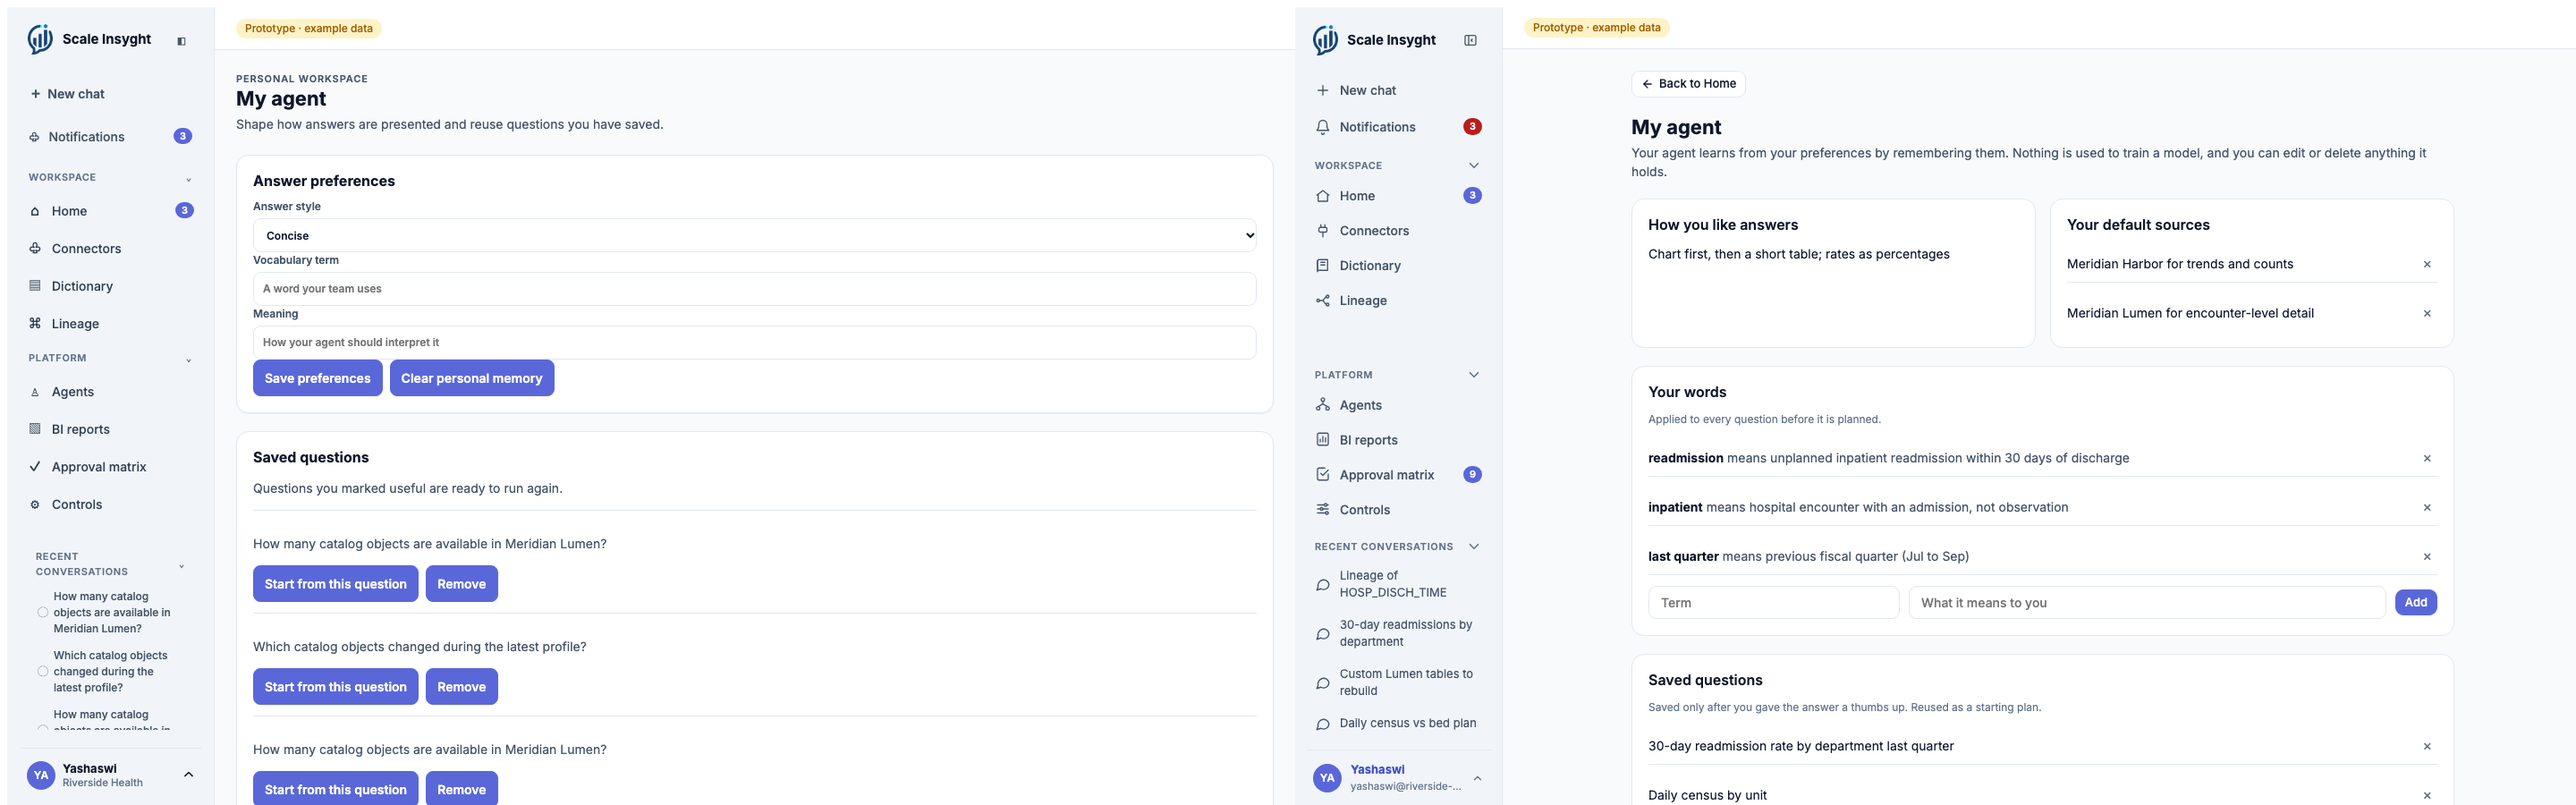
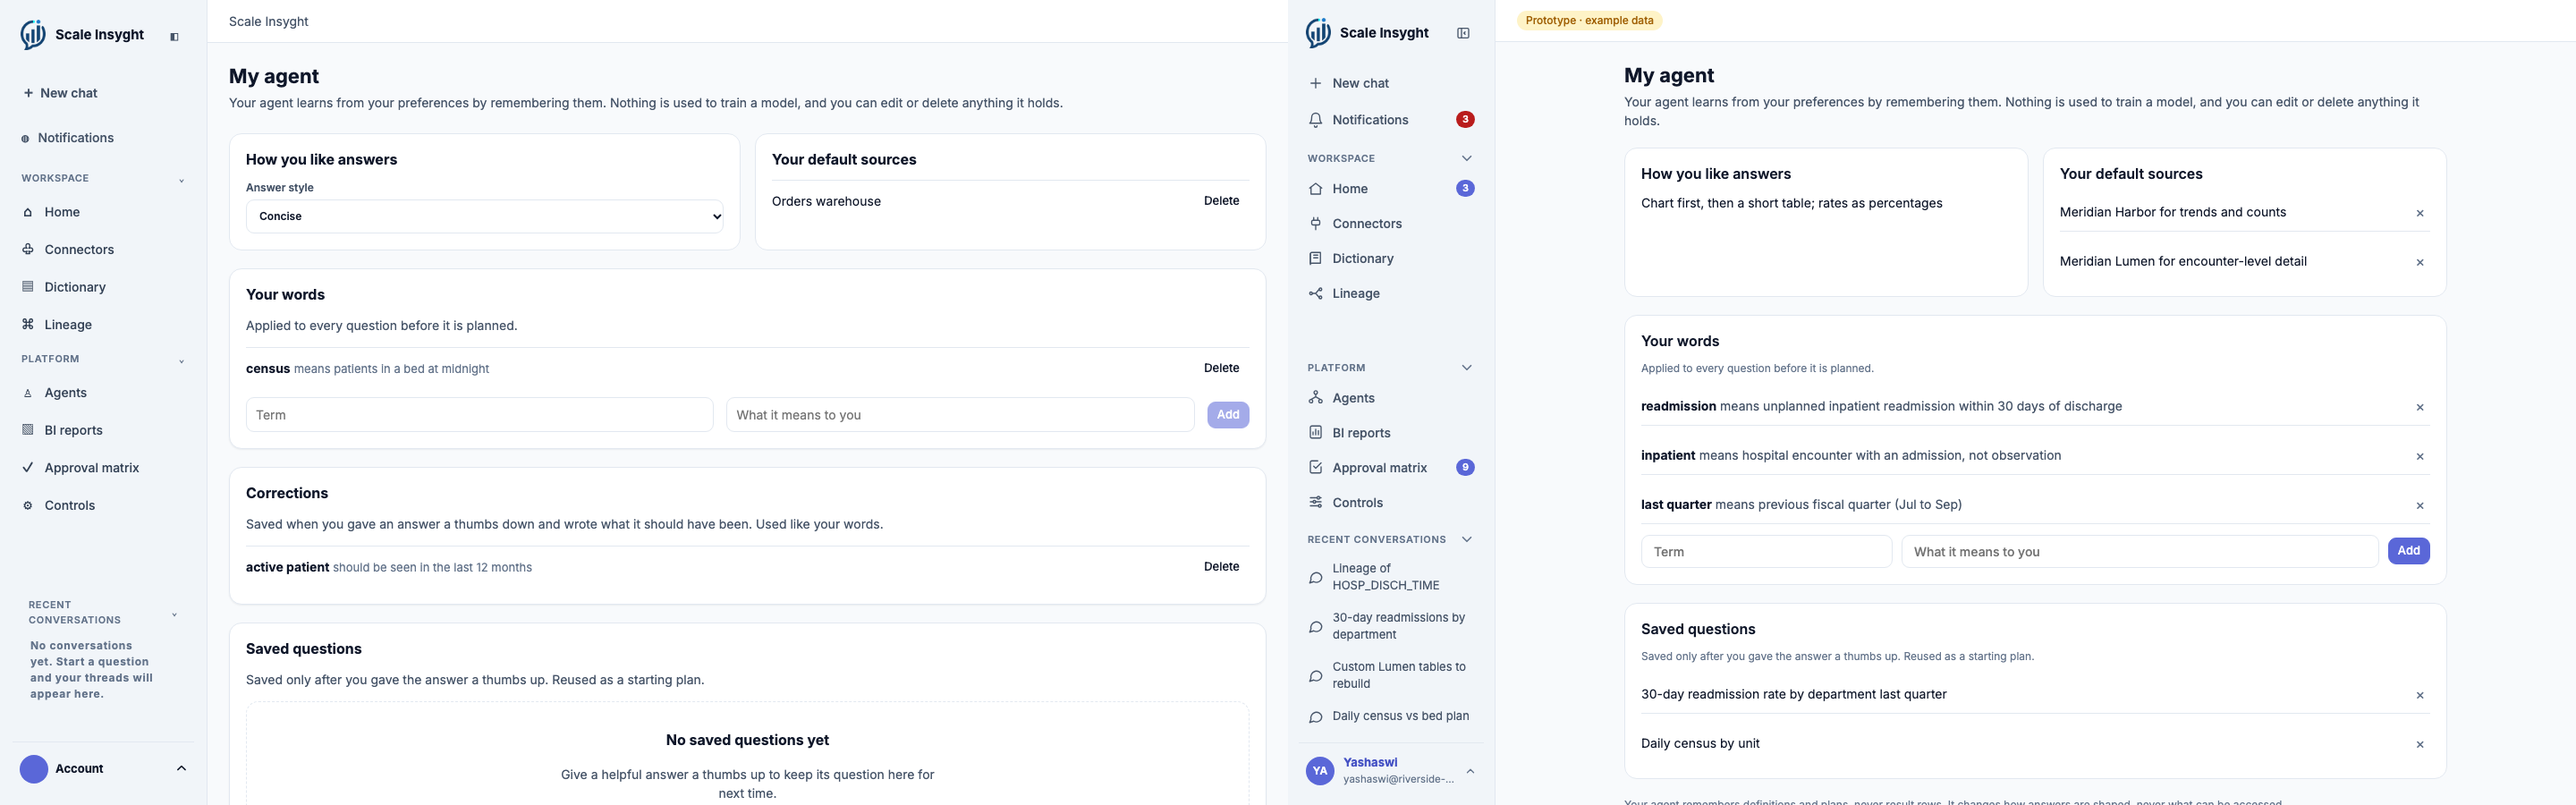
My agent matched to the prototype: default sources, your words and corrections, each deletable; remembers, never trains

diff --git a/apps/web/src/main.tsx b/apps/web/src/main.tsx
@@ -478,14 +478,31 @@ function ReportsPage(){
 
 
 function MyAgentPage(){
-  const [memory,setMemory]=useState<{vocabulary:Record<string,string>;defaultSources:string[];answerStyle:string|null}>({vocabulary:{},defaultSources:[],answerStyle:'concise'});
+  // Matched to the prototype (CLAUDE.md 10.2): answer style, default sources, your words, corrections and saved questions.
+  // Everything here is remembered, never trained, and only this person can read, edit or delete it (rule 12).
+  type Memory={vocabulary:Record<string,string>;defaultSources:string[];answerStyle:string|null;savedPlanIds?:string[];corrections?:Array<{term:string;meaning:string}>};
+  const [memory,setMemory]=useState<Memory>({vocabulary:{},defaultSources:[],answerStyle:'concise',corrections:[]});
   const [questions,setQuestions]=useState<Array<{planId:string;question:string;createdAt:string}>>([]);
-  const [term,setTerm]=useState('');const [meaning,setMeaning]=useState('');const [message,setMessage]=useState('');
-  async function refresh(){const [saved,personal]=await Promise.all([api<{memory:typeof memory}>('/api/me/agent'),api<{questions:typeof questions}>('/api/me/saved-questions')]);setMemory(saved.memory);setQuestions(personal.questions);}
+  const [sources,setSources]=useState<Array<{connectionId:string;displayName:string;connectorType:string;status:string}>>([]);
+  const [term,setTerm]=useState('');const [meaning,setMeaning]=useState('');const [adding,setAdding]=useState('');const [message,setMessage]=useState('');
+  async function refresh(){const [saved,personal,connections]=await Promise.all([api<{memory:Memory}>('/api/me/agent'),api<{questions:typeof questions}>('/api/me/saved-questions'),api<{connections:typeof sources}>('/api/connections').catch(()=>({connections:[]}))]);setMemory({...saved.memory,corrections:saved.memory.corrections??[]});setQuestions(personal.questions);setSources(connections.connections.filter(item=>item.status==='active'));}
   useEffect(()=>{void refresh().catch(()=>setMessage('Your agent settings could not be loaded.'));},[]);
-  async function save(){try{const vocabulary=term.trim()&&meaning.trim()?{...memory.vocabulary,[term.trim()]:meaning.trim()}:memory.vocabulary;const updated={...memory,vocabulary};await api('/api/me/agent',{method:'PUT',headers:{'content-type':'application/json'},body:JSON.stringify(updated)});setMemory(updated);setTerm('');setMeaning('');setMessage('Your preferences were saved.');}catch{setMessage('Your preferences could not be saved.');}}
+  async function store(next:Memory,done:string){try{await api('/api/me/agent',{method:'PUT',headers:{'content-type':'application/json'},body:JSON.stringify(next)});setMemory(next);setMessage(done);}catch{setMessage('Your agent could not be updated.');}}
   async function remove(planId:string){try{await api(`/api/me/saved-questions/${planId}`,{method:'DELETE'});await refresh();setMessage('Saved question removed.');}catch{setMessage('Saved question could not be removed.');}}
-  return <section className="my-agent-page"><div className="page-heading"><div><p className="eyebrow">Personal workspace</p><h1>My agent</h1><p>Shape how answers are presented and reuse questions you have saved.</p></div></div><article><h2>Answer preferences</h2><label>Answer style<Select value={memory.answerStyle??'concise'} onChange={event=>setMemory({...memory,answerStyle:event.target.value})}><option value="concise">Concise</option><option value="detailed">Detailed</option><option value="sql_first">Source first</option><option value="lineage_first">Evidence first</option></Select></label><label>Vocabulary term<Input value={term} onChange={event=>setTerm(event.target.value)} placeholder="A word your team uses" /></label><label>Meaning<Input value={meaning} onChange={event=>setMeaning(event.target.value)} placeholder="How your agent should interpret it" /></label><div className="actions"><Button variant="primary" onClick={()=>void save()}>Save preferences</Button><Button onClick={async()=>{try{await api('/api/me/agent',{method:'DELETE'});setMemory({vocabulary:{},defaultSources:[],answerStyle:null});setQuestions([]);setMessage('Personal memory cleared.');}catch{setMessage('Personal memory could not be cleared.');}}}>Clear personal memory</Button></div></article><article><h2>Saved questions</h2><p>Questions you marked useful are ready to run again.</p>{questions.length?questions.map(item=><div className="saved-question" key={item.planId}><p>{item.question}</p><div className="actions"><Button onClick={async()=>{try{const result=await api<{runId:string;conversationId:string}>(`/api/me/saved-questions/${item.planId}/start`,{method:'POST'});location.assign(`/conversations/${result.conversationId}`);}catch{setMessage('Saved question could not be started.');}}}>Start from this question</Button><Button variant="ghost" onClick={()=>void remove(item.planId)}>Remove</Button></div></div>):<EmptyState title="No saved questions yet" description="Mark a helpful answer to keep its question here for next time."/>}{message&&<p role="status">{message}</p>}</article></section>;
+  const name=(id:string)=>sources.find(item=>item.connectionId===id)?.displayName||'A source you no longer have';
+  const words=Object.entries(memory.vocabulary);const corrections=memory.corrections??[];
+  const deleteButton=(label:string,onClick:()=>void)=><Button variant="ghost" size="small" aria-label={`Delete ${label}`} onClick={onClick}>Delete</Button>;
+  return <section className="my-agent-page"><div className="page-heading"><div><h1>My agent</h1><p>Your agent learns from your preferences by remembering them. Nothing is used to train a model, and you can edit or delete anything it holds.</p></div></div>
+    <div className="my-agent-grid"><article><h2>How you like answers</h2><label>Answer style<Select value={memory.answerStyle??'concise'} onChange={event=>void store({...memory,answerStyle:event.target.value},'Answer style saved.')}><option value="concise">Concise</option><option value="detailed">Detailed</option><option value="sql_first">Source first</option><option value="lineage_first">Evidence first</option></Select></label></article>
+    <article><h2>Your default sources</h2>{memory.defaultSources.length?<ul className="memory-list">{memory.defaultSources.map(id=><li key={id}><span>{name(id)}</span>{deleteButton(name(id),()=>void store({...memory,defaultSources:memory.defaultSources.filter(item=>item!==id)},'Default source removed.'))}</li>)}</ul>:<p className="faint">None yet. Questions use the sources you pick each time.</p>}
+      {sources.some(item=>!memory.defaultSources.includes(item.connectionId))&&<div className="memory-add"><Select aria-label="Add a default source" value={adding} onChange={event=>setAdding(event.target.value)}><option value="">Add a source…</option>{sources.filter(item=>!memory.defaultSources.includes(item.connectionId)).map(item=><option key={item.connectionId} value={item.connectionId}>{item.displayName||item.connectorType}</option>)}</Select><Button size="small" aria-label="Add default source" disabled={!adding} onClick={()=>{void store({...memory,defaultSources:[...memory.defaultSources,adding]},'Default source added.');setAdding('');}}>Add</Button></div>}</article></div>
+    <article><h2>Your words</h2><p className="faint">Applied to every question before it is planned.</p>{words.length?<ul className="memory-list">{words.map(([word,means])=><li key={word}><span><b>{word}</b> <span className="muted">means {means}</span></span>{deleteButton(word,()=>{const vocabulary={...memory.vocabulary};delete vocabulary[word];void store({...memory,vocabulary},'Word removed.');})}</li>)}</ul>:<p className="faint">No words yet.</p>}
+      <form className="memory-add" onSubmit={event=>{event.preventDefault();if(!term.trim()||!meaning.trim())return;void store({...memory,vocabulary:{...memory.vocabulary,[term.trim()]:meaning.trim()}},'Word added.');setTerm('');setMeaning('');}}><Input aria-label="Term" placeholder="Term" value={term} onChange={event=>setTerm(event.target.value)} /><Input aria-label="Meaning" placeholder="What it means to you" value={meaning} onChange={event=>setMeaning(event.target.value)} /><Button variant="primary" size="small" type="submit" aria-label="Add word" disabled={!term.trim()||!meaning.trim()}>Add</Button></form></article>
+    <article><h2>Corrections</h2><p className="faint">Saved when you gave an answer a thumbs down and wrote what it should have been. Used like your words.</p>{corrections.length?<ul className="memory-list">{corrections.map((item,index)=><li key={`${item.term}-${index}`}><span><b>{item.term}</b> <span className="muted">should be {item.meaning}</span></span>{deleteButton(item.term,()=>void store({...memory,corrections:corrections.filter((_,position)=>position!==index)},'Correction removed.'))}</li>)}</ul>:<p className="faint">No corrections yet.</p>}</article>
+    <article><h2>Saved questions</h2><p className="faint">Saved only after you gave the answer a thumbs up. Reused as a starting plan.</p>{questions.length?questions.map(item=><div className="saved-question" key={item.planId}><p>{item.question}</p><div className="actions"><Button onClick={async()=>{try{const result=await api<{runId:string;conversationId:string}>(`/api/me/saved-questions/${item.planId}/start`,{method:'POST'});location.assign(`/conversations/${result.conversationId}`);}catch{setMessage('Saved question could not be started.');}}}>Start from this question</Button><Button variant="ghost" onClick={()=>void remove(item.planId)}>Remove</Button></div></div>):<EmptyState title="No saved questions yet" description="Give a helpful answer a thumbs up to keep its question here for next time."/>}</article>
+    <p className="faint">Your agent remembers definitions and plans, never result rows. It changes how answers are shaped, never what can be accessed.</p>
+    <div className="actions"><Button onClick={async()=>{try{await api('/api/me/agent',{method:'DELETE'});setMemory({vocabulary:{},defaultSources:[],answerStyle:null,corrections:[]});setQuestions([]);setMessage('Personal memory cleared.');}catch{setMessage('Personal memory could not be cleared.');}}}>Clear everything my agent remembers</Button></div>
+    {message&&<p role="status">{message}</p>}</section>;
 }
 
 function ApprovalMatrix() {

diff --git a/tests/e2e/phase5.spec.ts b/tests/e2e/phase5.spec.ts
@@ -46,3 +46,35 @@ test('c5_governed_report_exports_evidence_and_has_an_owner_scoped_daily_schedule
  await page.reload();const pdfDownload=page.waitForEvent('download');await page.getByRole('button',{name:'Download PDF'}).click();expect((await pdfDownload).suggestedFilename()).toMatch(/\.pdf$/);
  await page.getByLabel('Daily schedule for Daily catalog report').fill('23:59');await page.getByRole('button',{name:'Schedule daily'}).click();await expect(page.getByRole('status')).toContainText('Daily schedule saved');await page.getByRole('button',{name:'Disable schedule'}).click();await expect(page.getByRole('status')).toContainText('Schedule disabled');
 });
+
+test('my_agent_matches_the_prototype_and_everything_it_remembers_can_be_deleted',async({page,browser})=>{
+ // CLAUDE.md 10.2 and rule 12: answer style, default sources, your words, corrections and saved questions; remembers, never trains.
+ const tenant=await createTenant(`phase5-e2e-my-agent-${crypto.randomUUID().slice(0,8)}`);await signIn(page,tenant.ownerEmail);
+ await withTenant(setup,tenant.tenantId,db=>db.query("UPDATE registry.connections SET display_name='Orders warehouse' WHERE tenant_id=$1 AND connection_id=$2",[tenant.tenantId,tenant.sourceId]));
+ // A correction as a thumbs down saves it (the feedback route writes the same memory).
+ const seeded=await page.request.put('/api/me/agent',{data:{vocabulary:{},defaultSources:[],answerStyle:'concise',corrections:[{term:'active patient',meaning:'seen in the last 12 months'}]}});expect(seeded.ok()).toBe(true);
+ await page.goto('/my-agent');
+ await expect(page.getByText('Nothing is used to train a model, and you can edit or delete anything it holds.')).toBeVisible();
+ for(const heading of ['How you like answers','Your default sources','Your words','Corrections','Saved questions'])await expect(page.getByRole('heading',{name:heading,exact:true})).toBeVisible();
+ await expect(page.getByText('It changes how answers are shaped, never what can be accessed.')).toBeVisible();
+ // Your words: add one, see it, delete it.
+ await page.getByLabel('Term').fill('census');await page.getByLabel('Meaning').fill('patients in a bed at midnight');await page.getByRole('button',{name:'Add word'}).click();
+ await expect(page.locator('.memory-list').filter({hasText:'census'})).toContainText('means patients in a bed at midnight');
+ // Default sources: add the tenant's source by name.
+ await page.getByLabel('Add a default source').selectOption({label:'Orders warehouse'});await page.getByRole('button',{name:'Add default source'}).click();
+ await expect(page.locator('.memory-list').filter({hasText:'Orders warehouse'})).toBeVisible();
+ await expect(page.getByText('should be seen in the last 12 months')).toBeVisible();
+ await page.reload();
+ await expect(page.locator('.memory-list').filter({hasText:'census'})).toBeVisible(); // stored, not just shown
+ // The UI report pair: the app's My agent beside the prototype's, at 1440x900.
+ const {mkdirSync}=await import('node:fs');const {resolve}=await import('node:path');const {pathToFileURL}=await import('node:url');
+ mkdirSync('docs/acceptance/phase5/prototype',{recursive:true});await page.setViewportSize({width:1440,height:900});await page.screenshot({path:'docs/acceptance/phase5/my-agent.png'});
+ const prototype=await browser.newPage({viewport:{width:1440,height:900}});
+ try{await prototype.goto(pathToFileURL(resolve('docs/prototype/index.html')).href);await prototype.getByRole('button',{name:'Sign in',exact:true}).click();await prototype.evaluate('go("my-agent")');await expect(prototype.getByRole('heading',{name:'My agent'})).toBeVisible();await prototype.screenshot({path:'docs/acceptance/phase5/prototype/my-agent.png'});}
+ finally{await prototype.close();}
+ // Everything can be deleted.
+ await page.getByRole('button',{name:'Delete census'}).click();await page.getByRole('button',{name:'Delete Orders warehouse'}).click();await page.getByRole('button',{name:'Delete active patient'}).click();
+ await expect(page.getByText('No words yet.')).toBeVisible();await expect(page.getByText('No corrections yet.')).toBeVisible();
+ await page.reload();
+ await expect(page.getByText('No words yet.')).toBeVisible();await expect(page.getByText('No corrections yet.')).toBeVisible();await expect(page.getByText('None yet. Questions use the sources you pick each time.')).toBeVisible();
+});

diff --git a/apps/web/src/shell.css b/apps/web/src/shell.css
@@ -455,3 +455,13 @@ h3 { font-size: 14px; line-height: 1.3; }
 .login .ui-button--secondary { background:var(--surface); color:var(--ink); border:1px solid var(--line); font-weight:500; }
 .login .ui-button--secondary:hover:not(:disabled) { border-color:var(--primary); color:var(--primary-ink); }
 .login label small { display:block; margin-top:4px; font-weight:400; }
+/* My agent (prototype V['my-agent']): two cards side by side, then lists with a delete on each row. */
+.my-agent-page { width:min(920px,100%); margin:0 auto; }
+.my-agent-grid { display:grid; grid-template-columns:repeat(auto-fit,minmax(280px,1fr)); gap:16px; }
+.memory-list { list-style:none; margin:8px 0 0; padding:0; }
+.memory-list li { display:flex; justify-content:space-between; align-items:center; gap:12px; padding:8px 0; border-top:1px solid var(--line); }
+.memory-add { display:flex; gap:8px; align-items:center; flex-wrap:wrap; margin-top:10px; }
+.memory-add .ui-input { flex:1; min-width:120px; }
+.view .memory-add { display:flex; flex-direction:row; flex-wrap:wrap; }
+.view .memory-add .ui-input,.view .memory-add .ui-select { width:auto; flex:1 1 160px; }
+.view .memory-add .ui-button { width:auto; flex:none; }

diff --git a/scripts/compose-ui-screens.ts b/scripts/compose-ui-screens.ts
@@ -7,6 +7,7 @@ import { chromium } from '@playwright/test';
 // A prototype image wider than 1440 px (an existing pair) contributes its right half.
 type Pair = { out: string; app: string; prototype: string };
 const pairs: Pair[] = [
+  { out: 'my-agent', app: 'docs/acceptance/phase5/my-agent.png', prototype: 'docs/acceptance/phase5/prototype/my-agent.png' },
   { out: 'login', app: 'docs/acceptance/phase0/login.png', prototype: 'docs/acceptance/phase0/prototype/login.png' },
   { out: 'dictionary-landing', app: 'docs/acceptance/s9/landing.png', prototype: 'docs/acceptance/s9/prototype/landing.png' },
   { out: 'dictionary-table', app: 'docs/acceptance/s9/table.png', prototype: 'docs/acceptance/s9/prototype/table.png' },

diff --git a/docs/ui/ui-report.md b/docs/ui/ui-report.md
@@ -52,3 +52,4 @@ The application renders live seeded API data and real interactions; the prototyp
 
 Run `DEMO_MODE=true pnpm screens` with the app and API services available. The script runs the idempotent demo seed, signs in as the local demo user, opens each app route and prototype route in Playwright Chromium at 1440×900, checks visible app copy for fixture names, internal roles, and IDs, and writes the 17 side-by-side PNGs into `docs/ui/screens/`. The three Tableau pairs (S8) were composed from the S8 walkthrough's 1440×900 captures and the prototype's Connectors, add-connector and Reports routes.
 | [Login](screens/login.png) | Captured by `tests/e2e/phase0.spec.ts` (`phase0_login_without_a_tenant_link_uses_the_workspace_field`); composed by `scripts/compose-ui-screens.ts`. Same card, wording, Sign in and outlined single sign-on button. Intentional difference: a Workspace field above the email, filled from the link (`?tenant=`) or the workspace last signed in to on this browser, so a plain `/login` works (the prototype signs anyone in and needs no workspace). Known difference: the Powered by pill shows only the ScaleHealthTech mark, because the repository has the 71×96 mark only; the official logo file with the wordmark is needed (CLAUDE.md 10.2). |
+| [My agent](screens/my-agent.png) | Captured by `tests/e2e/phase5.spec.ts` (`my_agent_matches_the_prototype_and_everything_it_remembers_can_be_deleted`); composed by `scripts/compose-ui-screens.ts`. Same wording and order: how you like answers and default sources side by side, your words with an inline add row, saved questions, and the closing "never result rows" note. Intentional differences: answer style is chosen here rather than shown as text; each row has a labelled Delete button rather than a bare ×; a Corrections card (CLAUDE.md 10.2: corrections from a thumbs down); default sources show the source's name only, as the data model holds no per-source note. |
